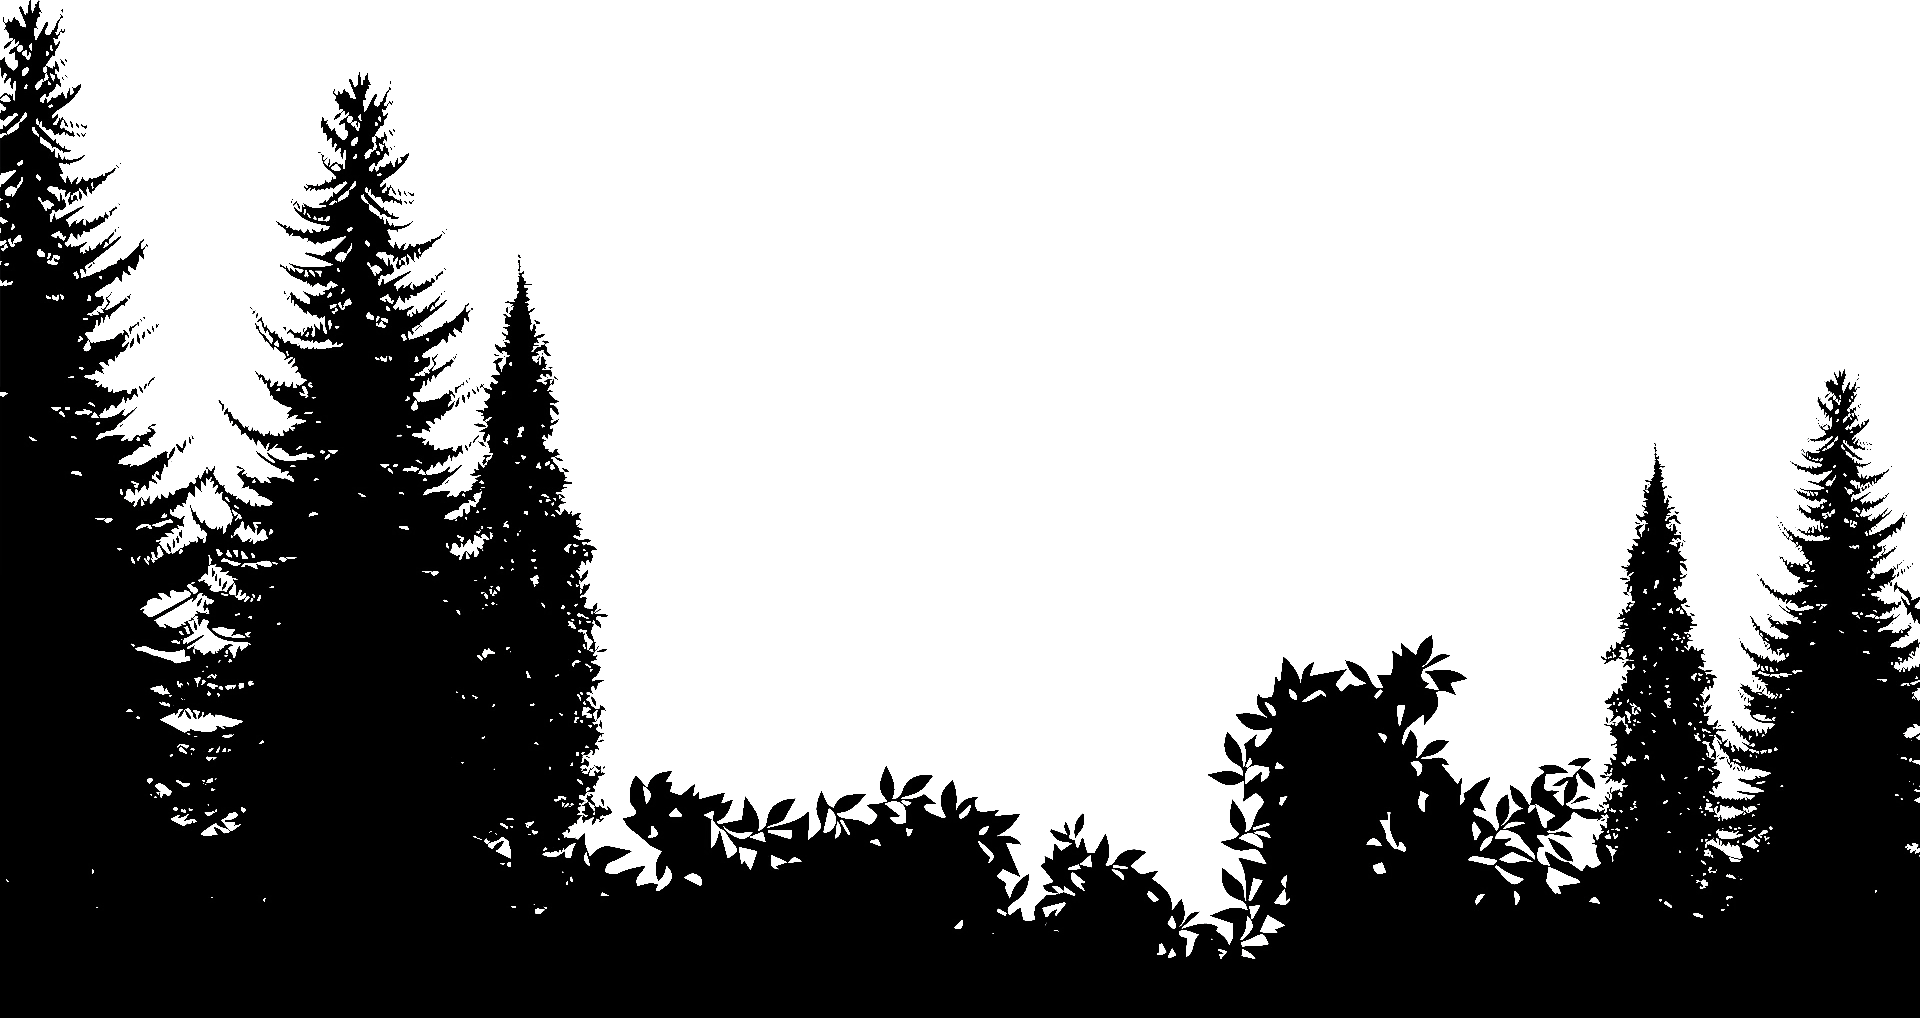
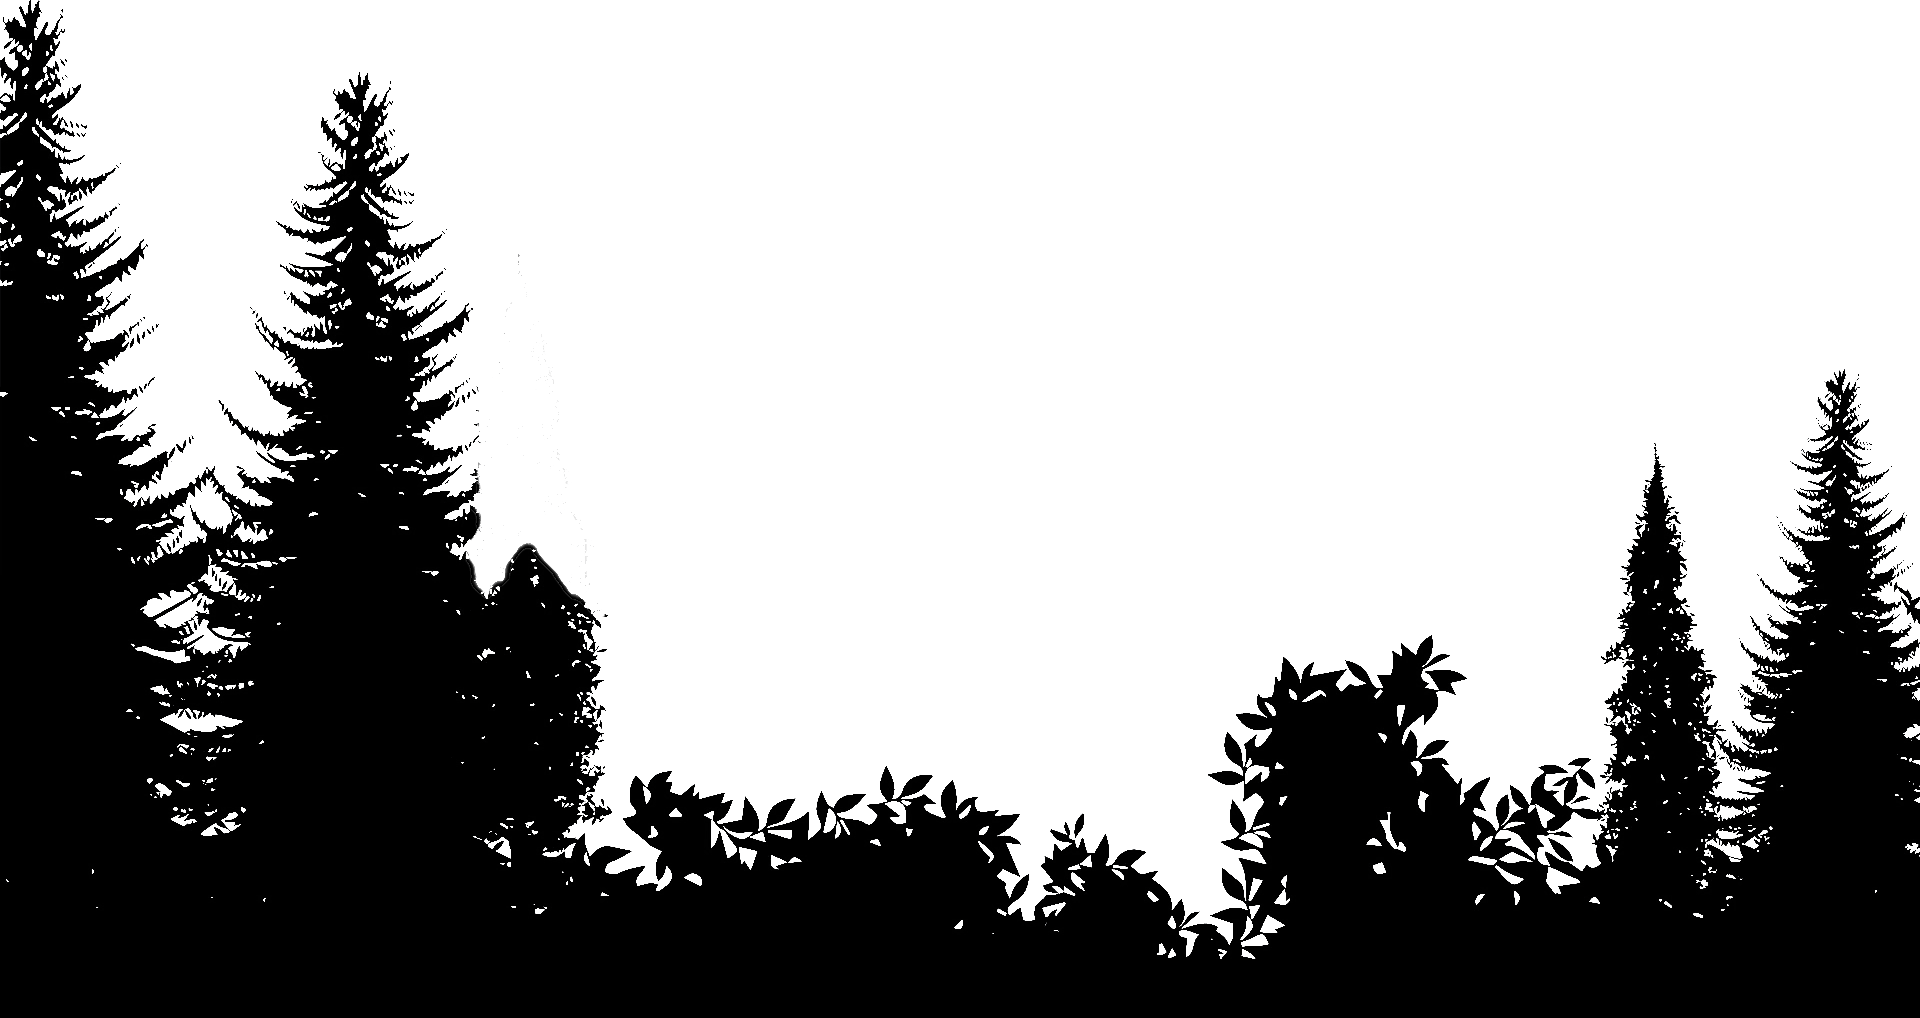
Change about section bacground and shape divider to glass

Changed region(s): [[0.2188, 0.2741, 0.3125, 0.609]]

diff --git a/css/style.css b/css/style.css
@@ -398,7 +398,22 @@ span.loader__heading {
     background-position: top;
     background-attachment: fixed;
     background-repeat: no-repeat;
+    scroll-behavior: smooth;
 }
+/* width */
+.main__wrapper::-webkit-scrollbar {
+    width: 10px;
+  }
+  /* Track */
+  .main__wrapper::-webkit-scrollbar-track {
+    background: var(--clr-primary);
+  }
+  /* Handle */
+  .main__wrapper::-webkit-scrollbar-thumb {
+    background: var(--clr-accent);
+    background: linear-gradient(180deg, rgba(3,233,244,1) 0%, rgba(170,0,175,1) 100%);
+    border-radius: 10px;
+  }
 .hero-section{
     position: relative;
     display: flex;
@@ -420,21 +435,22 @@ span.loader__heading {
 }
 .bg-parallax-bot {
     transform: translateZ(-10px) scale(2.1);
+    box-shadow: #000000;
 }
 .bg-parallax-top {
-    transform: translateZ(-5px) scale(1.51);
+    transform: translateZ(0px) scale(1.01);
 }
 h1 {
     font-size: var(--fz-heading-1);
     text-transform: uppercase;
     color: var(--clr-accent);
-    -webkit-text-stroke: 0.3px var(--clr-secondary);
     margin-bottom: 20vh;
     text-shadow: 0 0 50px var(--clr-accent),
     0 0 25px var(--clr-accent),
     0 0 50px var(--clr-accent),
     0 0 100px var(--clr-accent);
     letter-spacing: calc(var(--fz-heading-1) / 9);
+    transform: translateZ(-5px) scale(1.51);
 }
 .hero-section p {
     font-size: var(--fz-loading-para);
@@ -442,6 +458,7 @@ h1 {
     text-shadow: 0 0 5px var(--clr-primary);
     padding: 1.5rem;
     margin-bottom: 5px;
+    z-index: 2;
 }
 .hero-section a {
     border: 1px solid var(--clr-accent);
@@ -454,6 +471,7 @@ h1 {
     background: rgba(0, 0, 0, 0.2);
     backdrop-filter: blur(5px);
     -webkit-backdrop-filter: blur(5px);
+    z-index: 2;
 }
 .hero-section a:hover {
     background: var(--clr-accent);
@@ -473,9 +491,16 @@ h1 {
 }
 .about-section article {
     max-width: 1024px;
-    padding: 2rem;
-    margin: 100px 0 -200px 0;
+    padding: 3rem;
+    margin: 100px 2rem -300px 2rem;
     z-index: 1;
+    display: flex;
+    flex-direction: column;
+    background: rgba(0, 0, 0, 0.2);
+    backdrop-filter: blur(5px);
+    -webkit-backdrop-filter: blur(5px);
+    border-radius: 20px;
+    box-shadow: 0 0 15px 0px var(--clr-accent);
 }
 .about-section h2 {
     font-size: calc(var(--fz-para) * 1.3);
@@ -487,14 +512,8 @@ h1 {
     color: var(--clr-secondary-sub);
 }
 
-/* Content Section */
-.content {
-    position: relative;
-    min-height: 100vh;
-    background: white;
-}
 /* Shape divider */
-.custom-shape-divider-top-1668883077 {
+.custom-shape-divider-top-1668931134 {
     position: absolute;
     top: 0;
     left: 0;
@@ -502,24 +521,57 @@ h1 {
     overflow: hidden;
     line-height: 0;
 }
-
-.custom-shape-divider-top-1668883077 svg {
+.custom-shape-divider-top-1668931134 svg {
     position: relative;
     display: block;
-    width: calc(100% + 1.3px);
-    height: 400px;
+    width: calc(150% + 1.3px);
+    height: 100px;
+    transform: rotateY(180deg);
 }
-
-.custom-shape-divider-top-1668883077 .shape-fill {
+.custom-shape-divider-top-1668931134 .shape-fill {
     fill: #000000;
 }
+
+/* Content Section */
+.content {
+    position: relative;
+    min-height: 1000px;
+    background: var(--clr-primary-sub);
+}
+
+/* Footer Section */
+footer {
+    display: flex;
+    justify-content: space-between;
+    flex-wrap: wrap;
+    padding: 20px 5vw;
+    color: var(--clr-secondary);
+    background: var(--clr-primary);
+    font-size: var(--fz-loading-para);
+    gap: 10px
+}
+footer > p, footer > div {
+    margin: 0 20px;
+    text-align: center;
+}
+footer > div {
+     display: flex;
+     justify-content: center;
+     flex-wrap: wrap;
+}
+footer > div a {
+    margin: 0 10px;
+}
+
+
+/* MEDIA QUERIES */
 @media (max-width: 767px) {
     .custom-shape-divider-top-1668883077 svg {
         width: calc(100% + 1.3px);
         height: 100px;
     }
     .about-section article {
-        margin: 50px 0 -50px 0;
+        padding: 1.5rem;
     }
 }
 @media (max-width: 1024px) {
@@ -527,8 +579,7 @@ h1 {
         width: calc(100% + 1.3px);
         height: 200px;
     }
-    .about-section article {
-        margin: 50px 0 -50px 0;
+    footer {
+        justify-content: center;
     }
 }
-/* Footer Section */

diff --git a/index.html b/index.html
@@ -48,7 +48,7 @@
             <form action="#">
                 <input type="text" name="" required="" id="userName">
                 <label for="userName" id="userNameLabel">
-                    Type your name to continue
+                    Type your nickname to continue
                 </label>
                 <a id="submitUserName" href="#">
                     <span></span>
@@ -71,11 +71,11 @@
             <p>
                 Let us explore the beauty of HTML forms.
             </p>
-            <a href="#" id="exploreButton">
+            <a href="#aboutSection" id="exploreButton">
                 EXPLORE
             </a>
         </section>
-        <section class="about-section">
+        <section class="about-section" id="aboutSection">
             <article>
                 <h2>
                     About the Project
@@ -86,12 +86,23 @@
             </article>
         </section>
         <section class="content">
-            <div class="custom-shape-divider-top-1668883077">
+            <div class="custom-shape-divider-top-1668931134">
                 <svg data-name="Layer 1" xmlns="http://www.w3.org/2000/svg" viewBox="0 0 1200 120" preserveAspectRatio="none">
-                    <path d="M0,0V7.23C0,65.52,268.63,112.77,600,112.77S1200,65.52,1200,7.23V0Z" class="shape-fill"></path>
+                    <path d="M0,0V46.29c47.79,22.2,103.59,32.17,158,28,70.36-5.37,136.33-33.31,206.8-37.5C438.64,32.43,512.34,53.67,583,72.05c69.27,18,138.3,24.88,209.4,13.08,36.15-6,69.85-17.84,104.45-29.34C989.49,25,1113-14.29,1200,52.47V0Z" opacity=".25" class="shape-fill"></path>
+                    <path d="M0,0V15.81C13,36.92,27.64,56.86,47.69,72.05,99.41,111.27,165,111,224.58,91.58c31.15-10.15,60.09-26.07,89.67-39.8,40.92-19,84.73-46,130.83-49.67,36.26-2.85,70.9,9.42,98.6,31.56,31.77,25.39,62.32,62,103.63,73,40.44,10.79,81.35-6.69,119.13-24.28s75.16-39,116.92-43.05c59.73-5.85,113.28,22.88,168.9,38.84,30.2,8.66,59,6.17,87.09-7.5,22.43-10.89,48-26.93,60.65-49.24V0Z" opacity=".5" class="shape-fill"></path>
+                    <path d="M0,0V5.63C149.93,59,314.09,71.32,475.83,42.57c43-7.64,84.23-20.12,127.61-26.46,59-8.63,112.48,12.24,165.56,35.4C827.93,77.22,886,95.24,951.2,90c86.53-7,172.46-45.71,248.8-84.81V0Z" class="shape-fill"></path>
                 </svg>
             </div>
         </section>
+        <footer>
+            <p>
+                Created by: Quen Del Pilar | November 19, 2022
+            </p>
+            <div>
+                <a href="https://github.com/quendp/html-forms" target="_blank">View Github Repository</a>
+                <a href="https://quendp.github.io/html-forms/" target="_blank">View Live Website</a>
+            </div>
+        </footer>
     </main>
     <script src="js/app.js"></script>
 </body>
